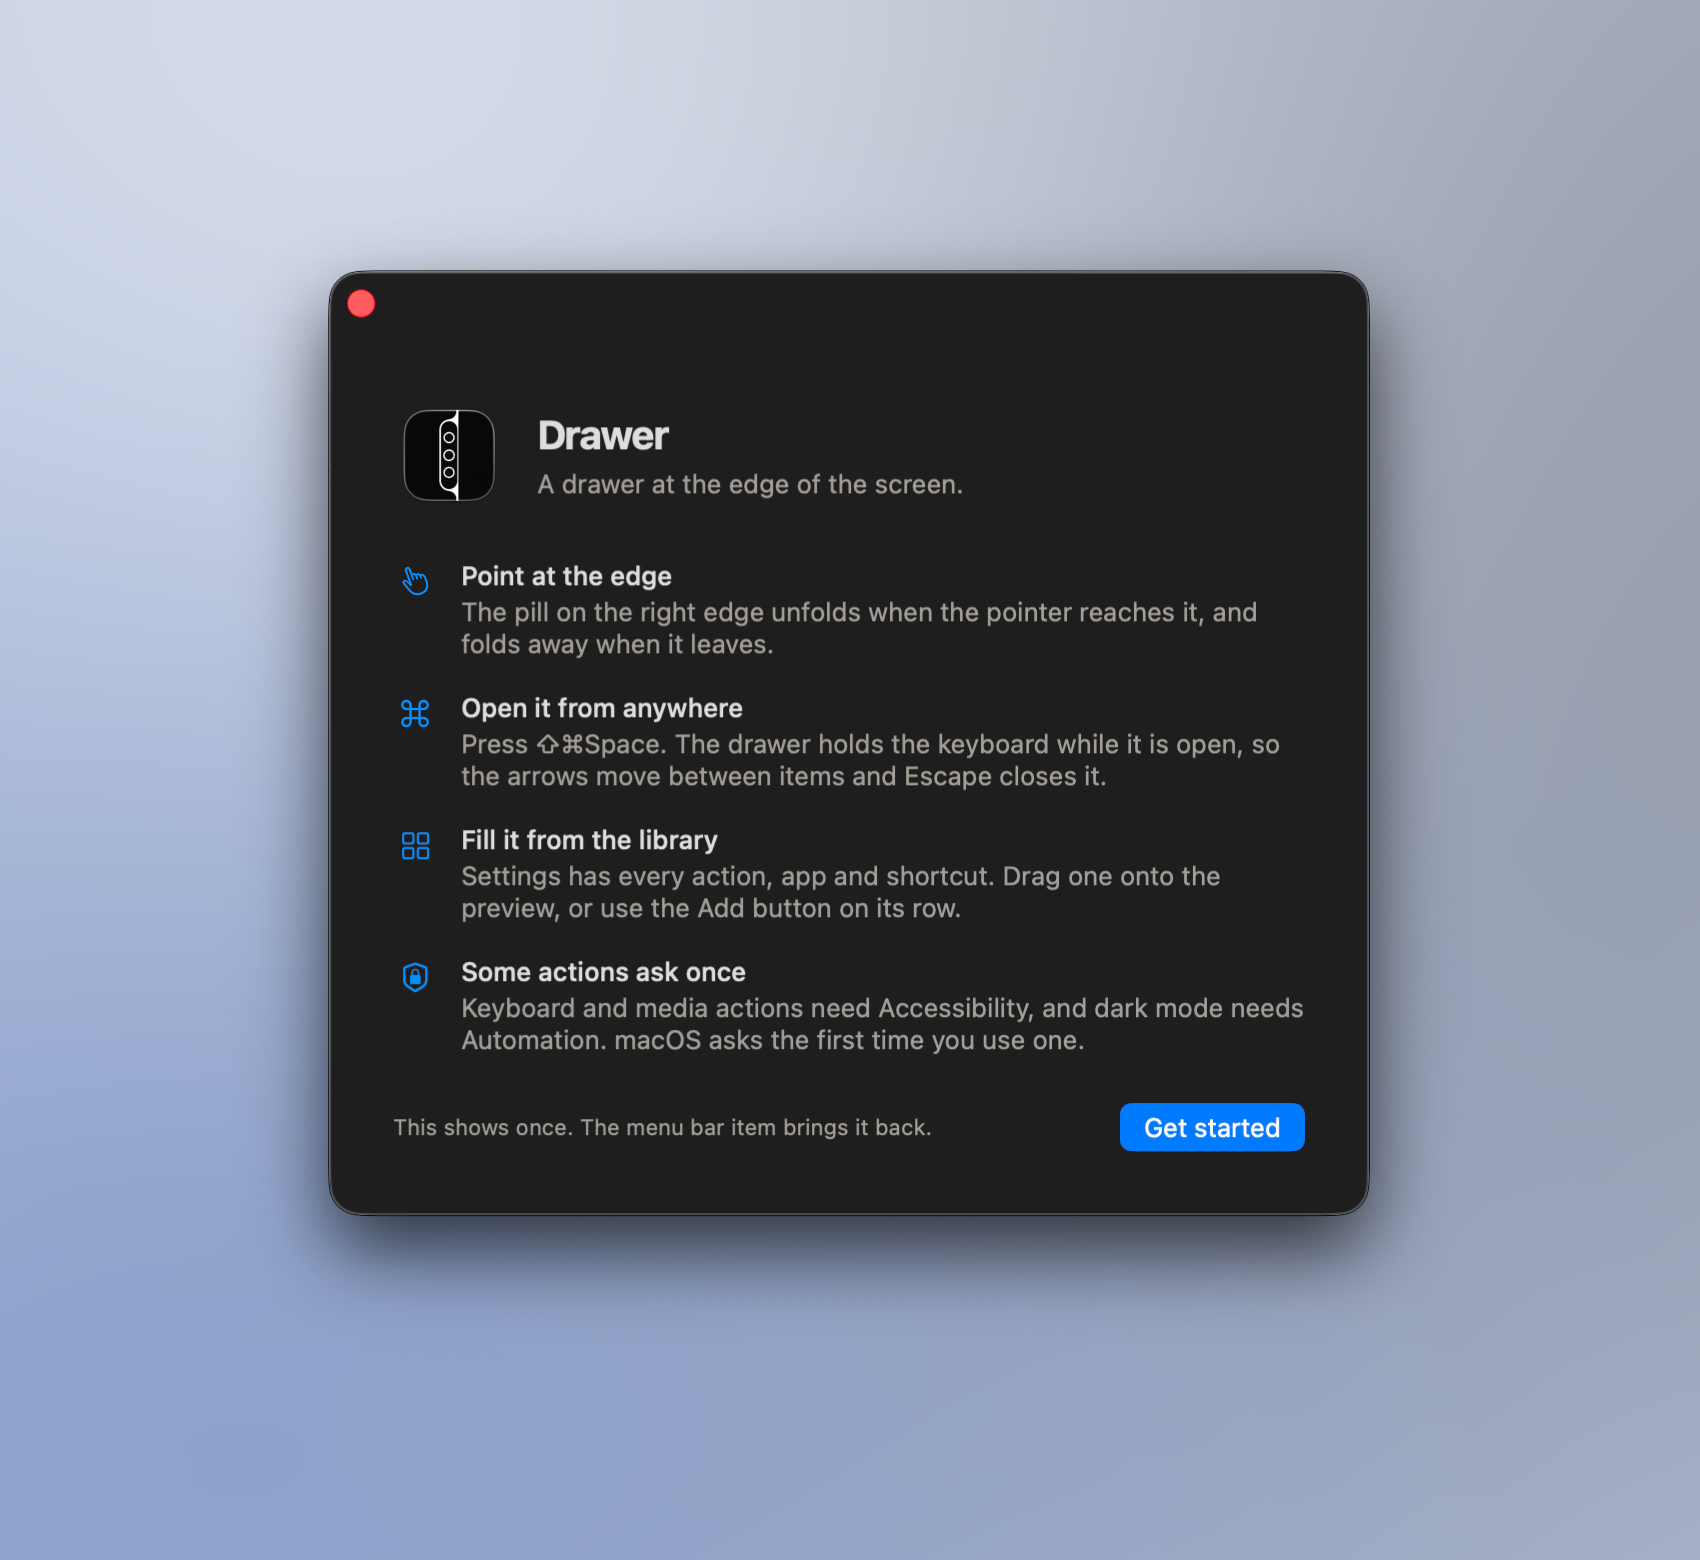
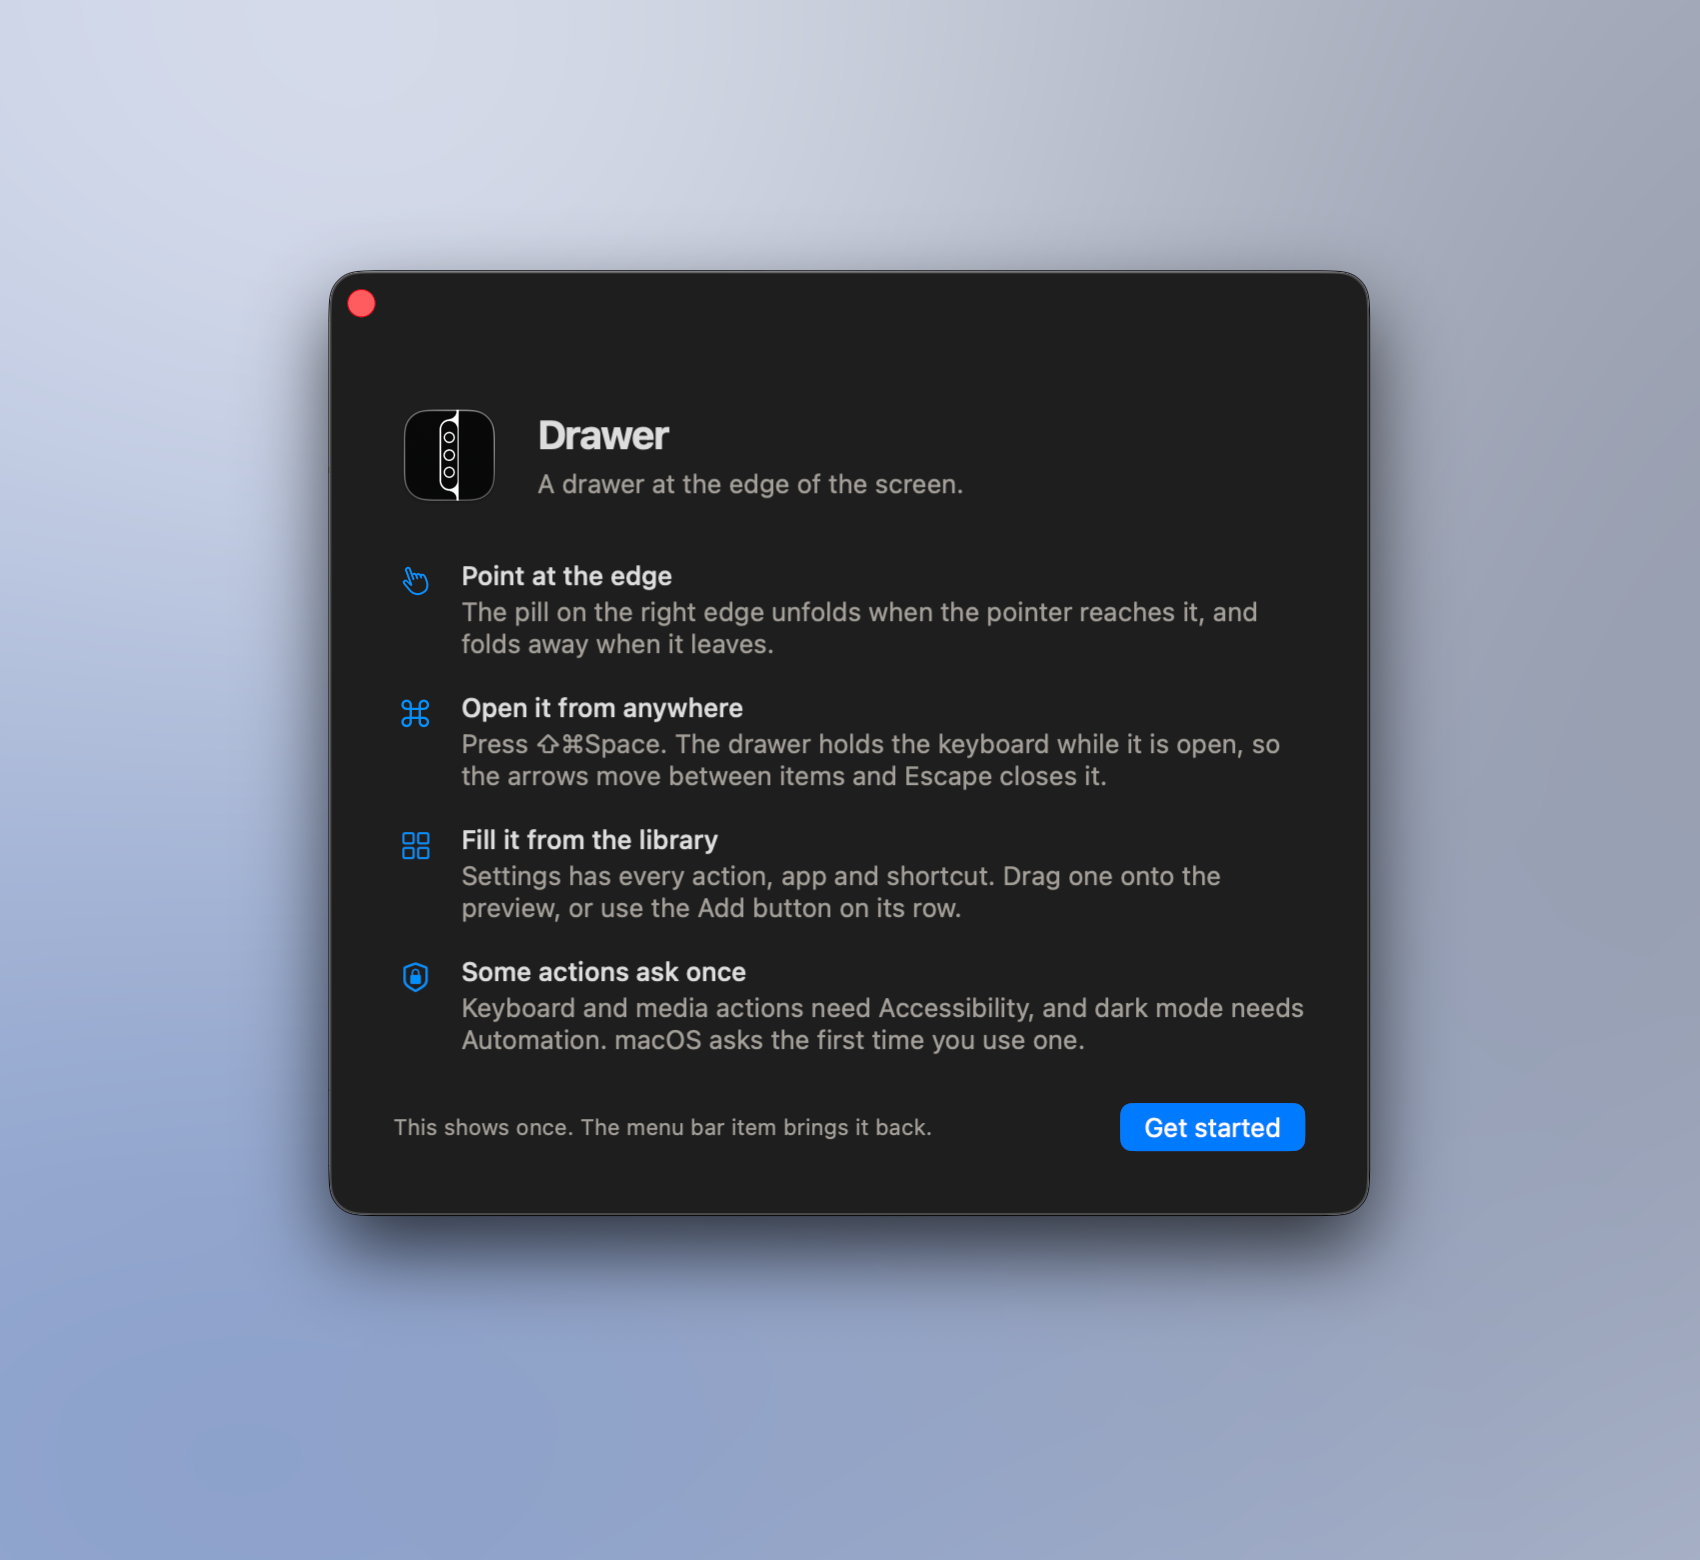
Deepen the preview wallpaper, and shoot the credit that was not built yet
The settings sidebar credits both developers now, and the images were
captured from a binary built before that change, so every shot still read
one name. Rebuilt and recaptured.

The mock display behind the preview was pale enough to still read as a
blank page at the size the Appearance page draws it, so both wallpapers
went a step deeper.

Changed region(s): [[0.6859, 0.7077, 0.7482, 0.7385], [0.2494, 0.2769, 0.2806, 0.3077]]

diff --git a/Sources/Settings/DrawerEditorPreview.swift b/Sources/Settings/DrawerEditorPreview.swift
@@ -166,8 +166,8 @@ struct DrawerEditorPreview: View {
     /// Quiet on purpose, since the subject is the black bar on its edge.
     private var wallpaper: LinearGradient {
         LinearGradient(colors: background == .light
-            ? [Color(hex: 0xF3F5FB), Color(hex: 0xE1E7F4)]
-            : [Color(hex: 0x1C1E27), Color(hex: 0x101218)],
+            ? [Color(hex: 0xEDF1FB), Color(hex: 0xD3DCEF)]
+            : [Color(hex: 0x20232E), Color(hex: 0x0D0F15)],
             startPoint: .topLeading, endPoint: .bottomTrailing)
     }
 
